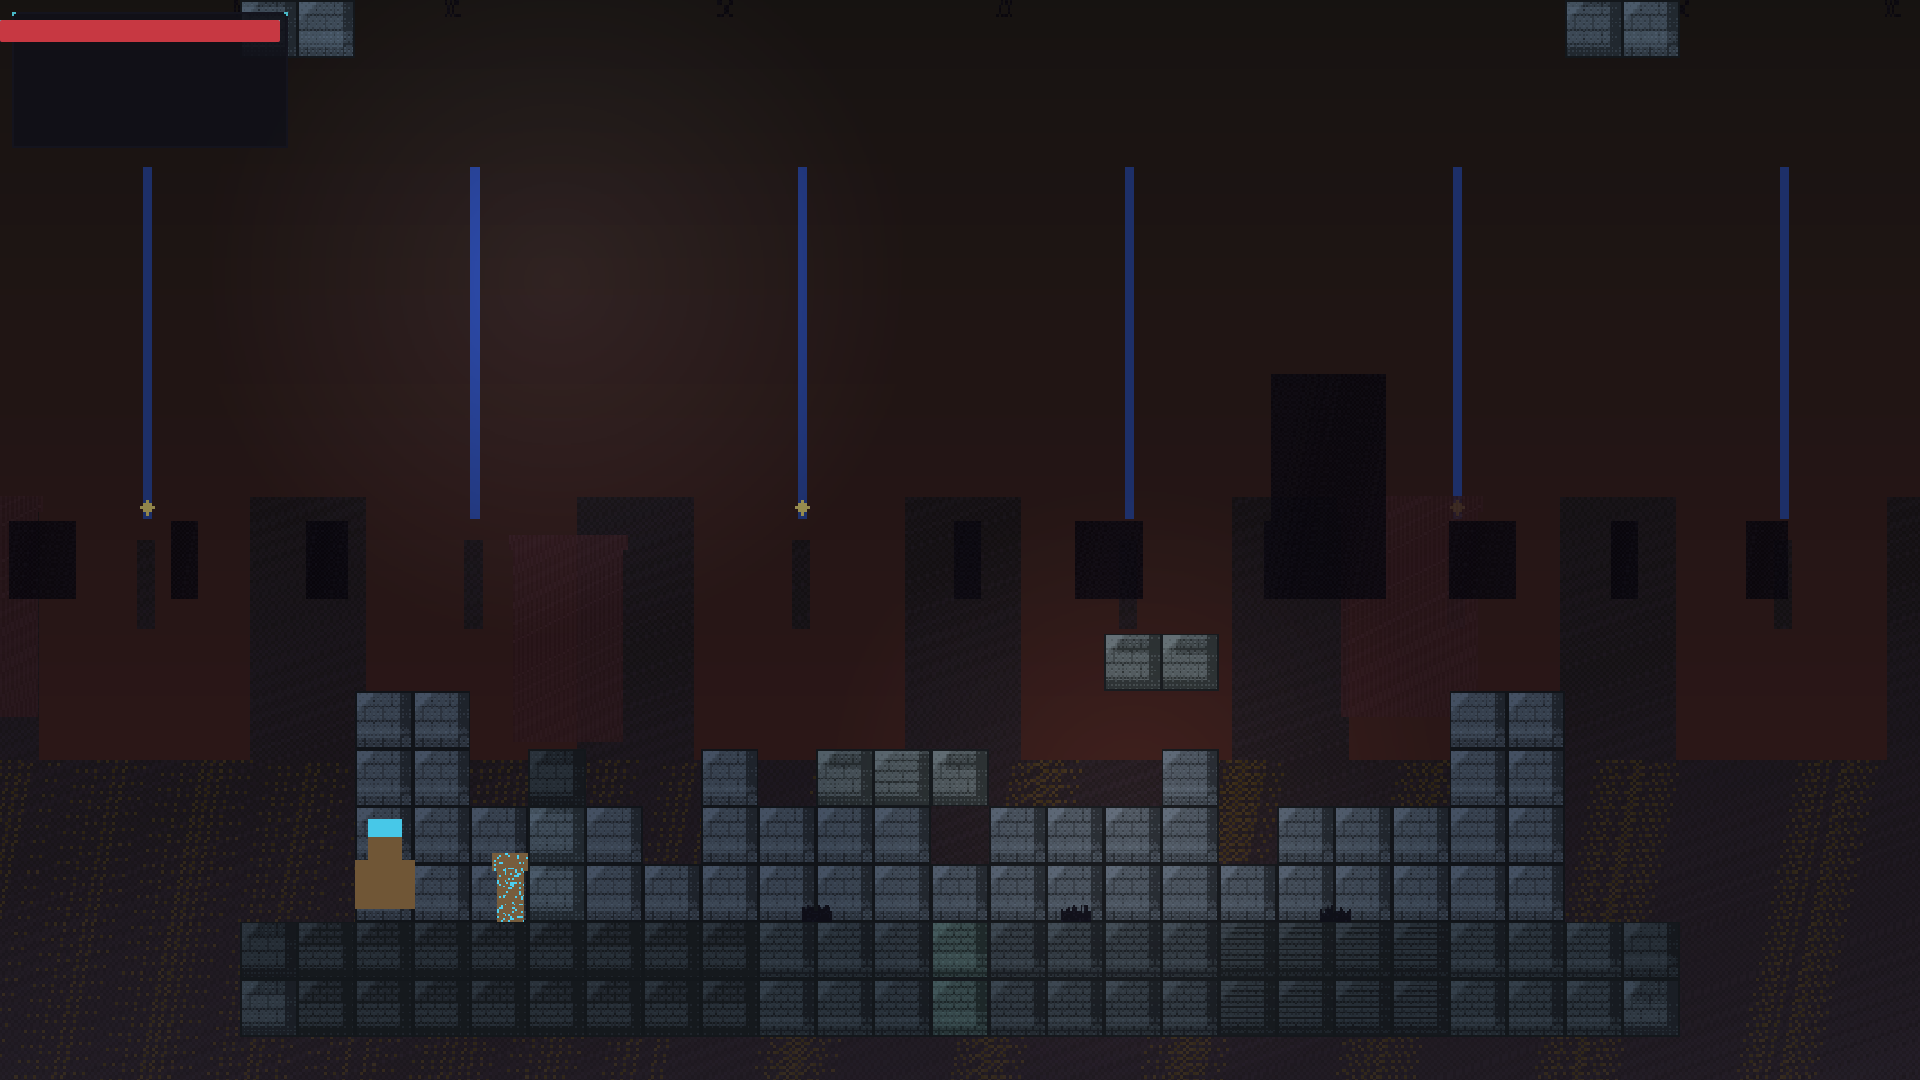
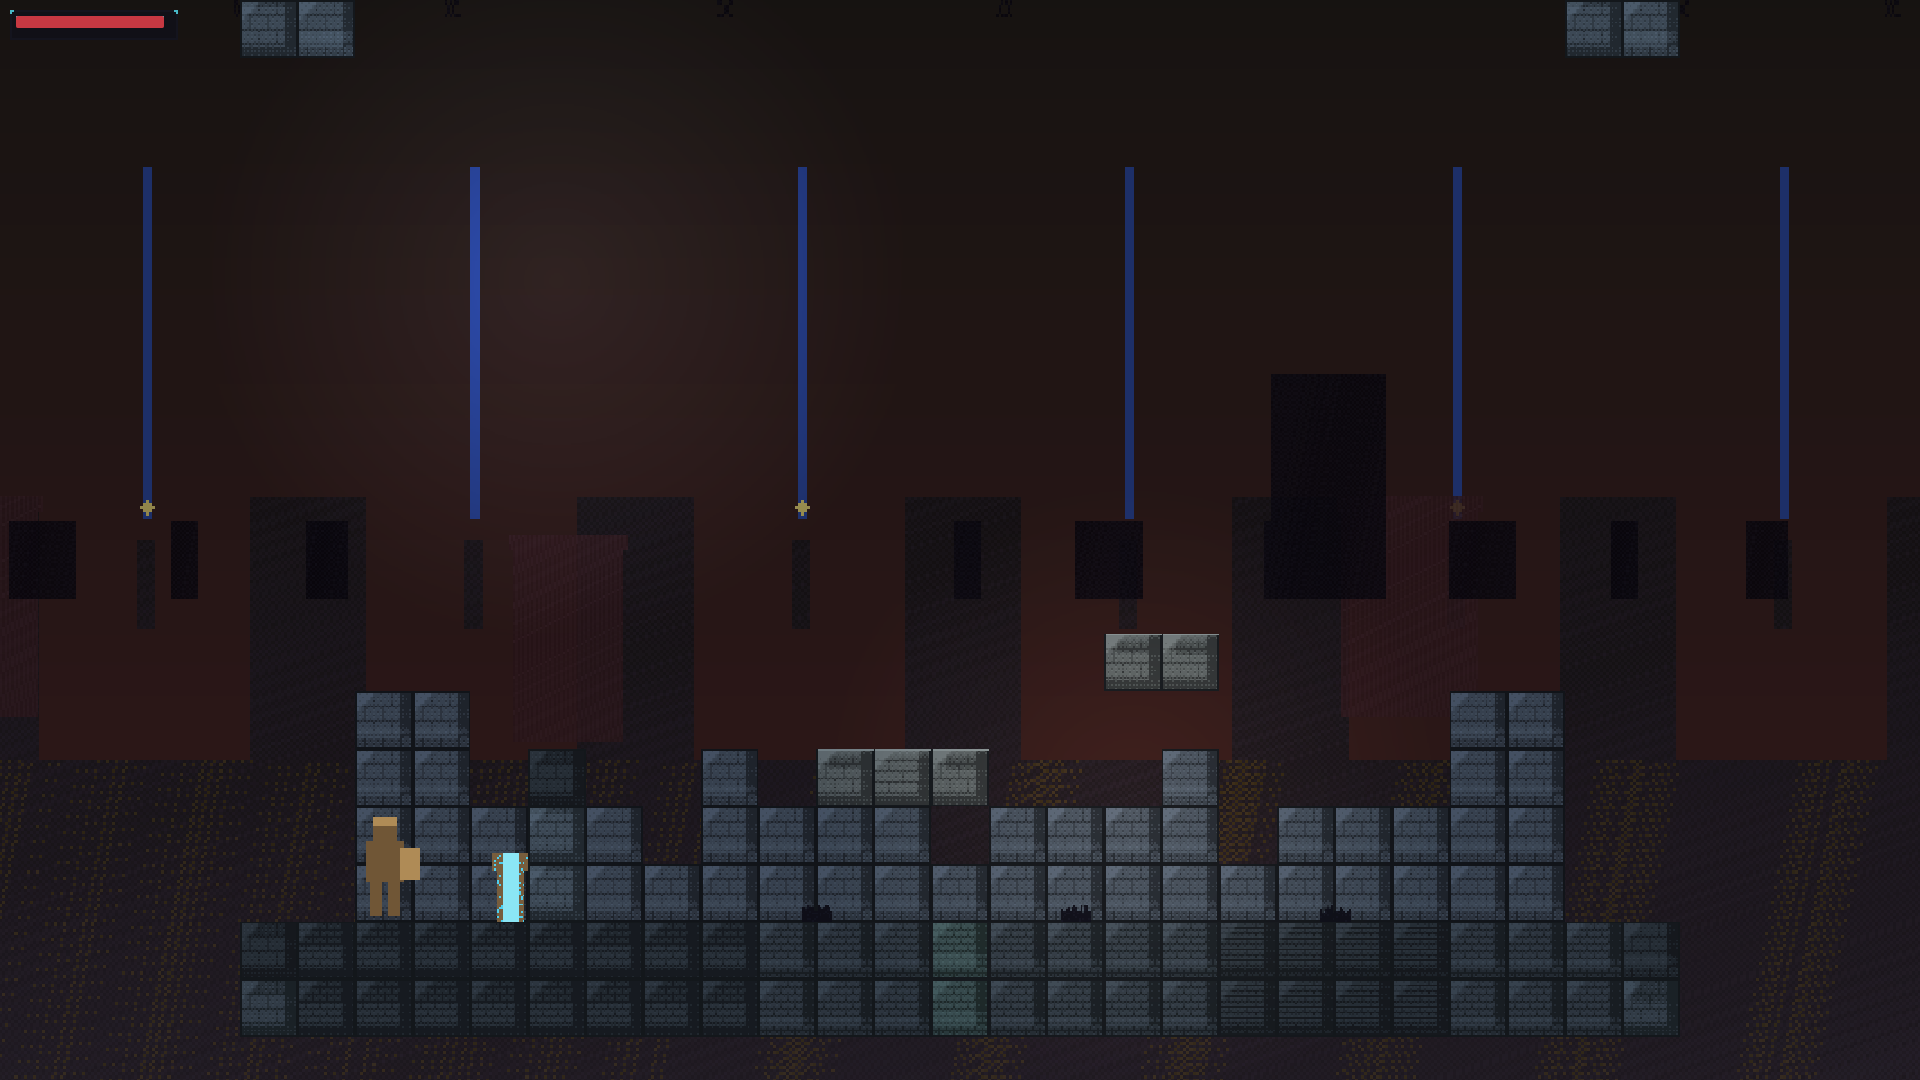
docs(review): verified traversal (collision overlays) + readability-pass after stills
Add per-room collision overlays (rooms 02/04/05/07) proving the vanished tall columns were
non-collidable RearWall decor while floor/platform colliders are byte-identical before/after.
Refresh after stills for the readability pass (brighter ledges, courier silhouette, shrine
focal core) and the ability-shrine band camera. Update README/MANIFEST; approval stays pending,
MASS/LARGE/RC blocked.

Changed region(s): [[0.0, 0.0, 0.1562, 0.0611], [0.1875, 0.7333, 0.2188, 0.8556], [0.25, 0.7944, 0.2812, 0.8556]]

diff --git a/review-artifacts/README.md b/review-artifacts/README.md
@@ -12,10 +12,10 @@ Visual approval: **rejected as a finished slice**. MASS / LARGE / RC stay **bloc
 
 | Field | Value |
 |---|---|
-| Code commit (after stills) | `ddb7163ea5f33d40f7f68467bae822b9f0c7efb6` (`ddb7163`) |
-| Message | `fix(godot): composition pass` (`ddbb803`) + palette color pass: `derive masonry from palette instead of teal` (`e5e6389`) + `warm the far/parallax backdrop from palette` (`ddb7163`) |
+| Code commit (after stills) | `b293f22b744f42c132e710009742d41bdc8f8e39` (`b293f22`) |
+| Message | composition + ability-shrine camera pass + palette color pass + readability pass (brighter ledges, courier silhouette, shrine focal core) |
 | Before stills | Pre-pass recapture of the same prompt/seed, generated from `a04ce27` |
-| Slug | `foundry-visual-slice-after` (before: `foundry-visual-slice-pr2`) |
+| Slug | `foundry-visual-slice-final` (before: `foundry-visual-slice-pr2`) |
 | Prompt | Ashen Foundry: a lone courier delves a ruined mechanical forge of brass and sooted iron, side-view metroidvania |
 | Profile | `VISUAL_VERTICAL_SLICE` |
 | Mode | `LOCAL_ONLY` |
@@ -24,12 +24,36 @@ Visual approval: **rejected as a finished slice**. MASS / LARGE / RC stay **bloc
 | Godot | `4.7.1.stable.official.a13da4feb` |
 | Viewport | 1920×1080 |
 | Windowed driver | `opengl3` (Linux) |
-| Created | `2026-09-10T05:06:34Z` |
-| Job id | `job_mtv2c003_5lfxl7` |
 | `visualSliceApproved` | `false` |
 | `visualReviewStatus` | `VISUAL_SLICE_REVIEW_REQUIRED` |
 
-After PNGs are byte-identical to `GeneratedGames/foundry-visual-slice-after/reports/{02,04,05,06,07}*.png` from that run.
+After PNGs are byte-identical to `GeneratedGames/foundry-visual-slice-final/reports/{02,04,05,06,07}*.png` from that run.
+
+## Traversal continuity — verified (not inferred from stills)
+
+The vanished tall columns were decorative runtime `RearWall` ribs (`collision_enabled = false`),
+not climb geometry. Evidence:
+
+- **Collidable geometry is byte-identical before vs after.** Every room's `StaticBody2D` +
+  `CollisionShape2D` count and every `RectangleShape2D` size match between `foundry-visual-slice-pr2`
+  (before) and `foundry-visual-slice-final` (after).
+- **Collision overlays** in [`collision/`](collision/) render each room's real collidable
+  surfaces (floor + platforms, green) over the art for rooms 02/04/05/07.
+- **Runtime gates pass:** `world_connectivity`, `world_reachability` (all rooms reachable via
+  progressive ability pickup), `movement_feasibility` (ability gates align with jump/dash reach),
+  and `godot_playtest` **8/8** (persona `victory_rusher`, ~38s, rooms 000–009) on Godot 4.7.1.
+
+## Readability pass in these stills
+
+- **Platform edges:** floor lifted off the soot background, platform ledges brighter than walls,
+  and a bright top lip on platform/one-way tiles — walls and the overall scene are not brightened.
+- **Courier silhouette:** head + torso + two legs + carrying pack, with the accent limited to a
+  small warm helmet band and the pack instead of a full cyan cap.
+- **Focal points:** shrine/save/ability props get a bright luminous core so a checkpoint reads as a
+  focal point. The ability-shrine room (05) is also camera-pinned to the playable band with a
+  furnace hearth (concurrent godot pass).
+- **Still open (follow-ups):** non-shrine rooms (02/04) still frame a tall room with action along
+  the bottom, and the blue vertical beacon elements are unchanged (source not conclusively traced).
 
 ## What the after pass changed (on top of `ddbb803`)
 
@@ -80,7 +104,7 @@ The FAIL in `validation_report.json` is **not** computed from rooms 02 / 04 / 05
 
 | Source | File | Role |
 |---|---|---|
-| Gate | `qa/screenshot_gameplay.png` | **Scored.** SHA-256 prefix `acb127411c9598a0`. 1920×1080. |
+| Gate | `qa/screenshot_gameplay.png` | **Scored.** SHA-256 prefix `8c90bbb7583df60a`. 1920×1080. |
 | Room stills | `qa/screenshot_slice_traversal.png` etc. = `reports/02-traversal.png` … | Same **windowed** RuntimeSmokeTest session; **different PNGs** (different hashes). |
 
 Capture path:
@@ -88,7 +112,7 @@ Capture path:
 1. Headless Godot smoke still hits `texture_2d_get` null (dummy renderer). Those runtime screenshot checks stay SOFT_FAIL. That is **not** the gate input.
 2. `captureGameplayScreenshots` then ran **windowed** Godot (`--rendering-driver opengl3`, `METROFORGE_CAPTURE=1`). Telemetry `strategy` is `windowed_gpu`. The scored frame is **not** blank (occupancy 100%, ~80 quantized colors).
 
-Reported gate numbers (`screenshot_critique.json` / `validation_report`) for this after run: occupancy **0.983**, uniqueColors **51**, lumaStdDev **6.39**, score **40**, issue wallpaper/low-contrast. The windowed (`windowed_gpu`, `opengl3`) frame is not blank.
+Reported gate numbers (`screenshot_critique.json` / `validation_report`) for this after run: occupancy **0.983**, uniqueColors **51**, lumaStdDev **6.63**, score **40**, issue wallpaper/low-contrast. The windowed (`windowed_gpu`, `opengl3`) frame is not blank.
 
 The warm-soot/gunmetal color pass slightly changes the numbers (the old navy run reported occupancy 1.0 / lumaStdDev 5.10 / 80 colors) but the deterministic `gameplay_screenshot_qa` gate **still fails** at score 40: a single spawn still frame is intentionally low-contrast for this heuristic. That is exactly why **visual approval stays pending** — automated QA is not a substitute for human review.
 
